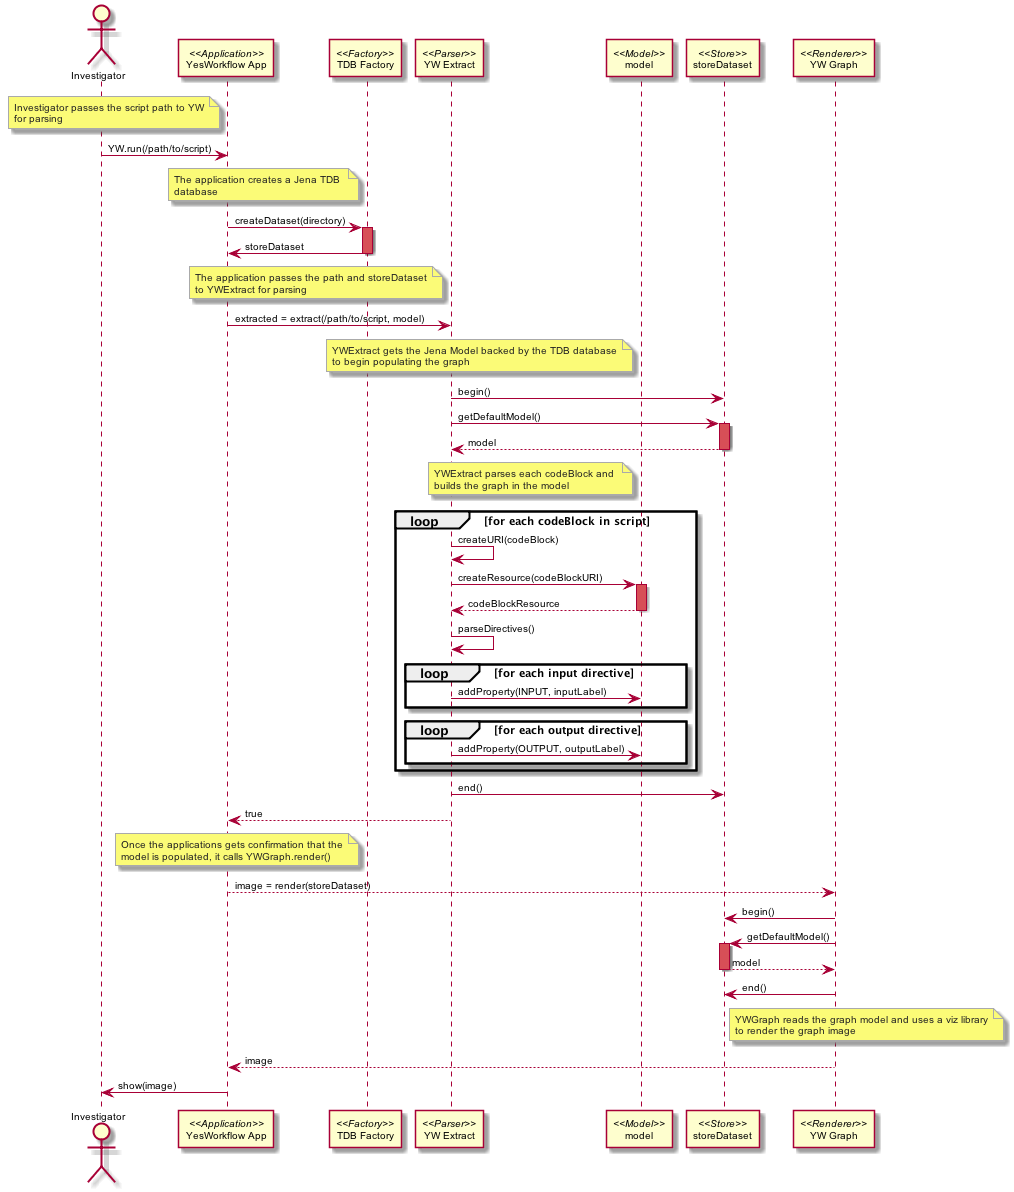
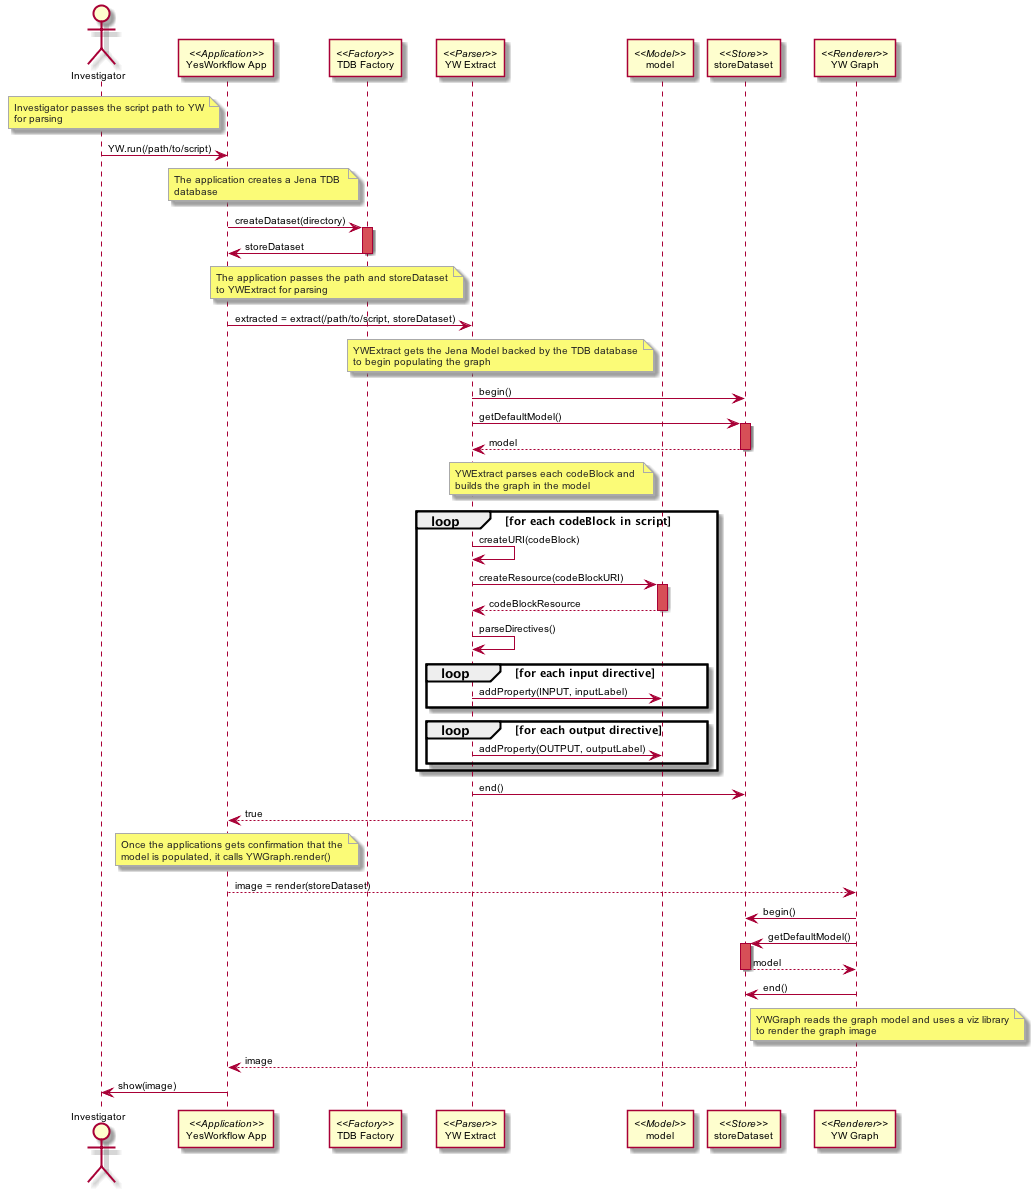
Fix another minor typo.

diff --git a/docs/YesWorkflow/architecture/YesWorkFlow.rst b/docs/YesWorkflow/architecture/YesWorkFlow.rst
@@ -35,7 +35,7 @@ The following sequence diagram describes a draft architecture for the prototype 
             The application passes the path and storeDataset
             to YWExtract for parsing
         end note
-        yw_app -> yw_extract: extracted = extract(/path/to/script, model)
+        yw_app -> yw_extract: extracted = extract(/path/to/script, storeDataset)
         note left of model
             YWExtract gets the Jena Model backed by the TDB database
             to begin populating the graph
